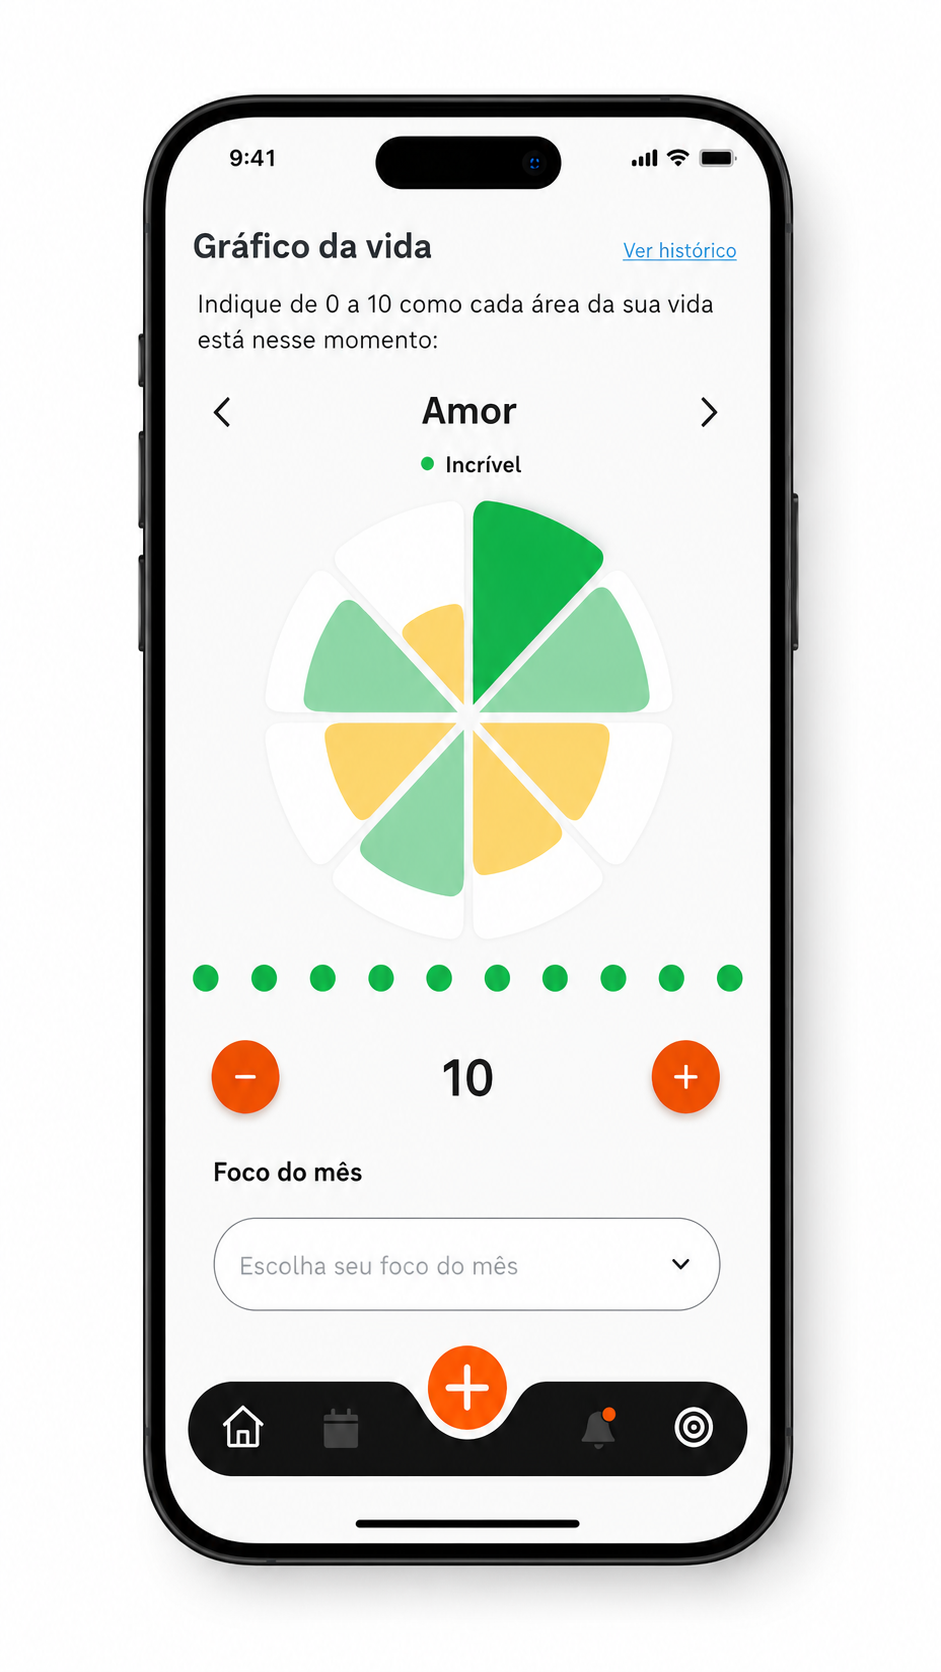
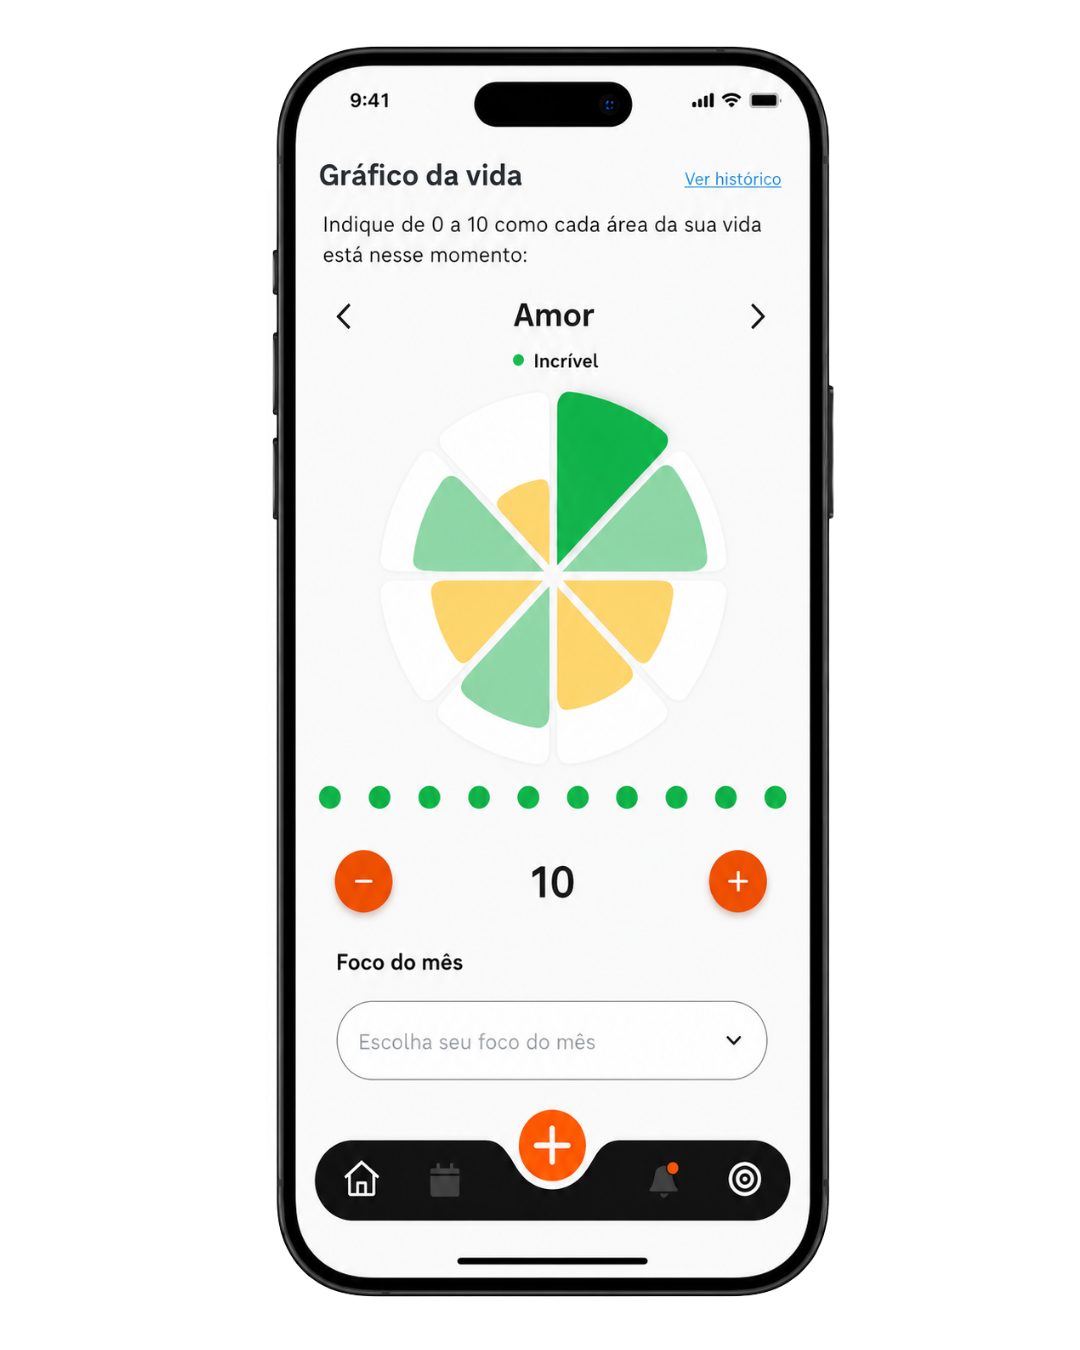
feat: update screen3 with new version, cache bust ?v=2

Changed region(s): [[0.1233, 0.0311, 0.8937, 0.9644]]

diff --git a/index.html b/index.html
@@ -4348,7 +4348,7 @@
               <span class="fe-cover-cap">Gráfico</span>
               <div class="fe-phone">
                 <div class="fe-phone-notch"></div>
-                <div class="fe-phone-screen"><picture><source srcset="screen3.avif" type="image/avif"/><source srcset="screen3.webp" type="image/webp"/><img src="screen3.png" alt="Gráfico da vida no U.GO — visão equilibrada das áreas pessoais e profissionais" loading="lazy" decoding="async"/></picture></div>
+                <div class="fe-phone-screen"><picture><source srcset="screen3.avif?v=2" type="image/avif"/><source srcset="screen3.webp?v=2" type="image/webp"/><img src="screen3.png?v=2" alt="Gráfico da vida no U.GO — visão equilibrada das áreas pessoais e profissionais" loading="lazy" decoding="async"/></picture></div>
               </div>
             </article>
             <article class="fe-cover-item" data-i="4">